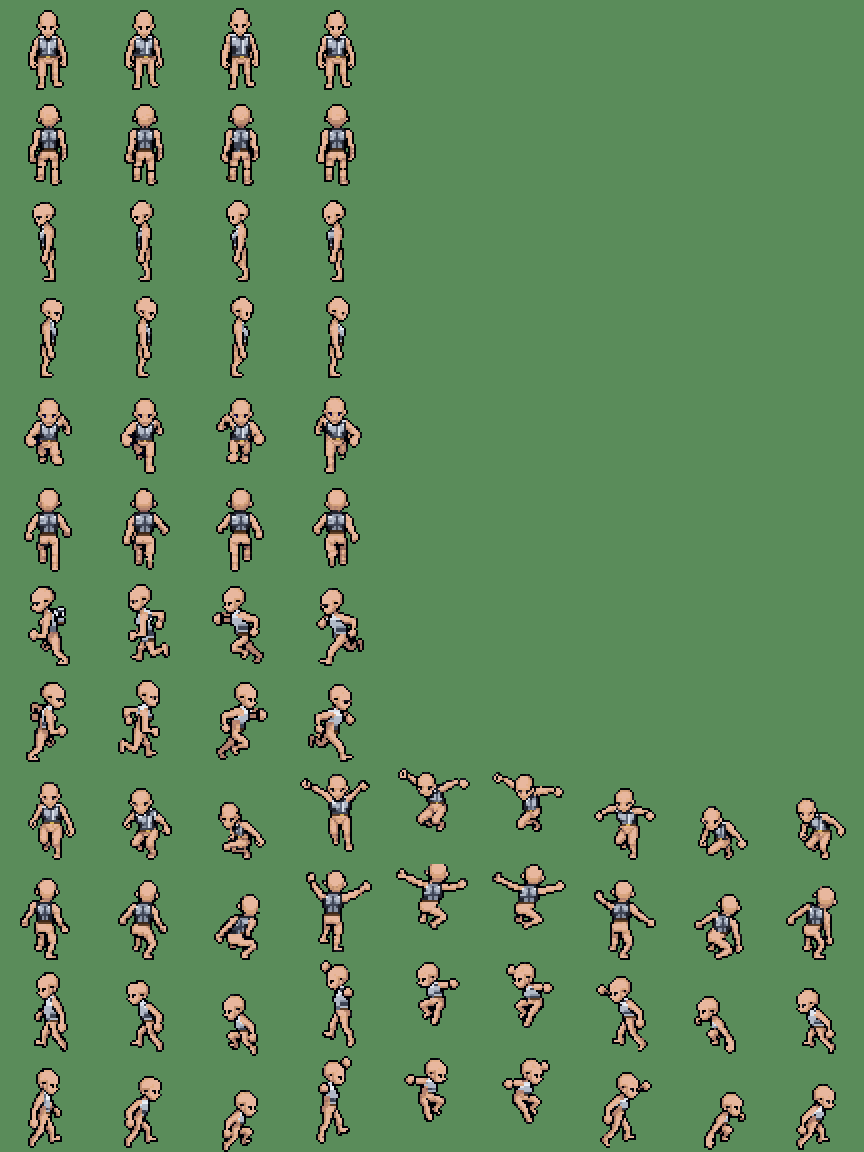
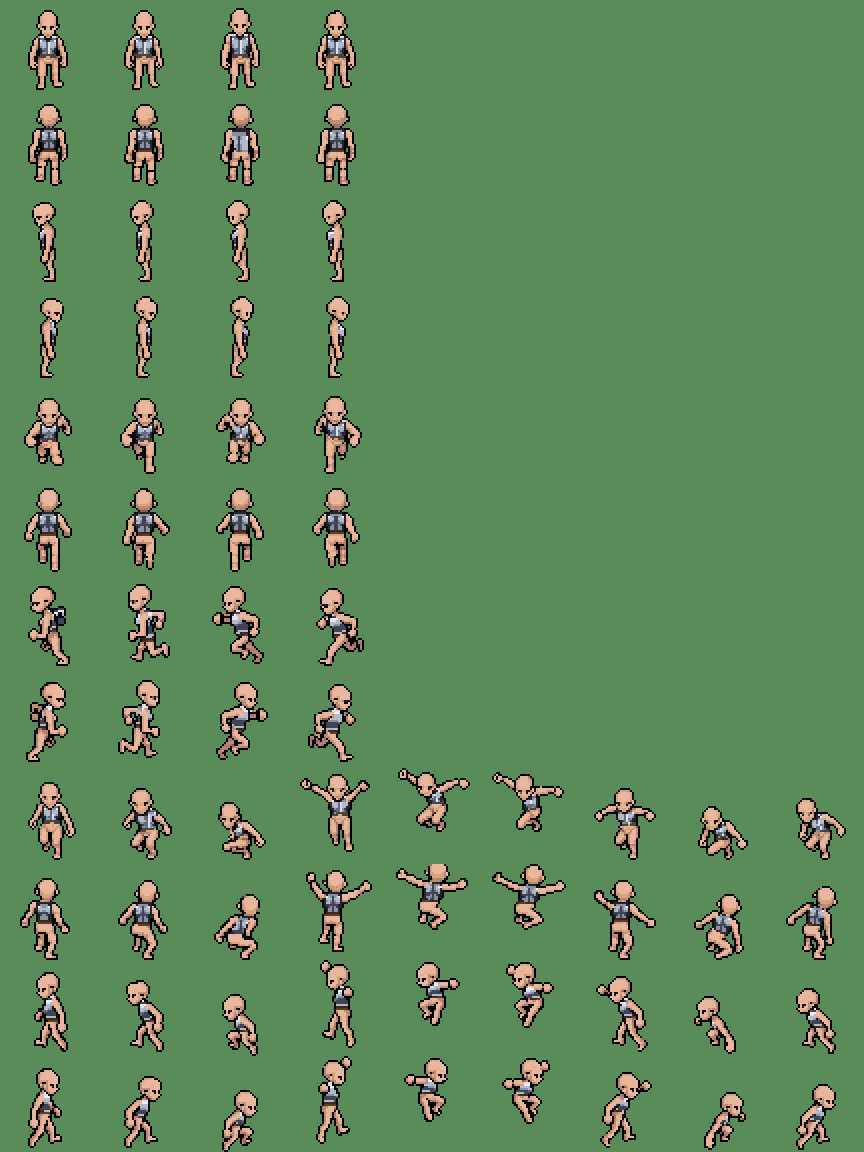
Gear follows the torso's tilt; no more bare chest pixels
- gen_body_sheet.py maps each piece in a tilted grid: 'up' runs from the middle of
  the legs to the middle of the head (as Rex marked), so the plate leans with the
  body in jump frames.
- Plain-coloured pieces are mapped as one region instead of auto-split quarters
  (narrow side-view chests left a quarter empty, so some chest pixels stayed bare);
  hand-painted quarter colours still map quarter by quarter. 0 chest pixels bare.
- Chestplate sheet regenerated.

Claude-Session: https://claude.ai/code/session_01EDJdevTTXkh2MxjtuxH8t8

diff --git a/tools/gen_body_sheet.py b/tools/gen_body_sheet.py
@@ -121,36 +121,58 @@ def read_map(map_img, row, col):
             hit = (m[..., 3] > 0) & (np.abs(m[..., :3] - np.array(c)).sum(axis=2) <= 6)
             part[hit] = pi
             quarter[hit] = q
-        # one plain colour for the piece: split it into quarters at its middle in this frame
+        # one plain colour for the piece: mapped as a whole (quarter -1)
         plain = (m[..., 3] > 0) & (np.abs(m[..., :3] - np.array(PLAIN[p])).sum(axis=2) <= 6)
-        if plain.any():
-            part[plain] = pi
-            ys, xs = np.where(part == pi)
-            my, mx = np.median(ys), np.median(xs)
-            py, px = np.where(plain)
-            quarter[py, px] = (py >= my).astype(int) * 2 + (px >= mx).astype(int)
+        part[plain] = pi
     return part, quarter
+
+
+def body_axes(part):
+    """The body's tilt in a frame: 'up' runs from the middle of the legs to the middle of the
+    head (straight up if either is missing); 'across' is at right angles to it."""
+    head = np.argwhere(part == PARTS.index("head"))
+    legs = np.argwhere((part == PARTS.index("legs")) | (part == PARTS.index("feet")))
+    up = np.array([-1.0, 0.0])                        # (dy, dx): screen up
+    if len(head) and len(legs):
+        v = head.mean(axis=0) - legs.mean(axis=0)
+        if np.hypot(*v) > 2.0:
+            up = v / np.hypot(*v)
+    across = np.array([up[1], -up[0]])                # screen right when standing upright
+    return up, across
+
+
+def local(points, up, across):
+    """Positions in the tilted grid, scaled 0..1 across and 0..1 up, plus the region's size."""
+    c = points.mean(axis=0)
+    a = (points - c) @ across
+    u = (points - c) @ up
+    w, h = max(a.max() - a.min(), 1.0), max(u.max() - u.min(), 1.0)
+    return np.stack([(a - a.min()) / w, (u - u.min()) / h], axis=1), (w, h)
 
 
 def dress(target, gear, tpart, tq, spart, sq, parts):
     out = target.copy()
+    t_up, t_across = body_axes(tpart)
+    s_up, s_across = body_axes(spart)
     for pi in parts:
-        for q in range(4):
+        # regions: each hand-painted quarter on its own, plain-coloured pixels as one piece
+        for q in (-1, 0, 1, 2, 3):
             here = (tpart == pi) & (tq == q)
-            there = (spart == pi) & (sq == q)
-            if not here.any() or not there.any():
+            if not here.any():
                 continue
-            hy, hx = np.where(here)
-            ty, tx = np.where(there)
-            h0, h1, w0, w1 = hy.min(), hy.max(), hx.min(), hx.max()
-            t0, t1, u0, u1 = ty.min(), ty.max(), tx.min(), tx.max()
-            for y, x in zip(hy, hx):
-                fy = (y - h0) / max(h1 - h0, 1)
-                fx = (x - w0) / max(w1 - w0, 1)
-                sy = t0 + fy * (t1 - t0)
-                sx = u0 + fx * (u1 - u0)
-                k = ((ty - sy) ** 2 + (tx - sx) ** 2).argmin()     # nearest pixel of that quarter
-                g = gear[ty[k], tx[k]]
+            there = (spart == pi) & (sq == q)
+            if not there.any():
+                there = spart == pi                   # nothing matching in the standing frame: use the whole piece
+            if not there.any():
+                continue
+            hp = np.argwhere(here).astype(float)
+            sp = np.argwhere(there)
+            hl, _ = local(hp, t_up, t_across)
+            sl, (sw, sh) = local(sp.astype(float), s_up, s_across)
+            for (y, x), (fa, fu) in zip(hp.astype(int), hl):
+                d = ((sl[:, 0] - fa) * sw) ** 2 + ((sl[:, 1] - fu) * sh) ** 2
+                k = d.argmin()                        # same spot on the standing piece
+                g = gear[sp[k][0], sp[k][1]]
                 if g[3] > 0:
                     out[y, x] = g
     return out
